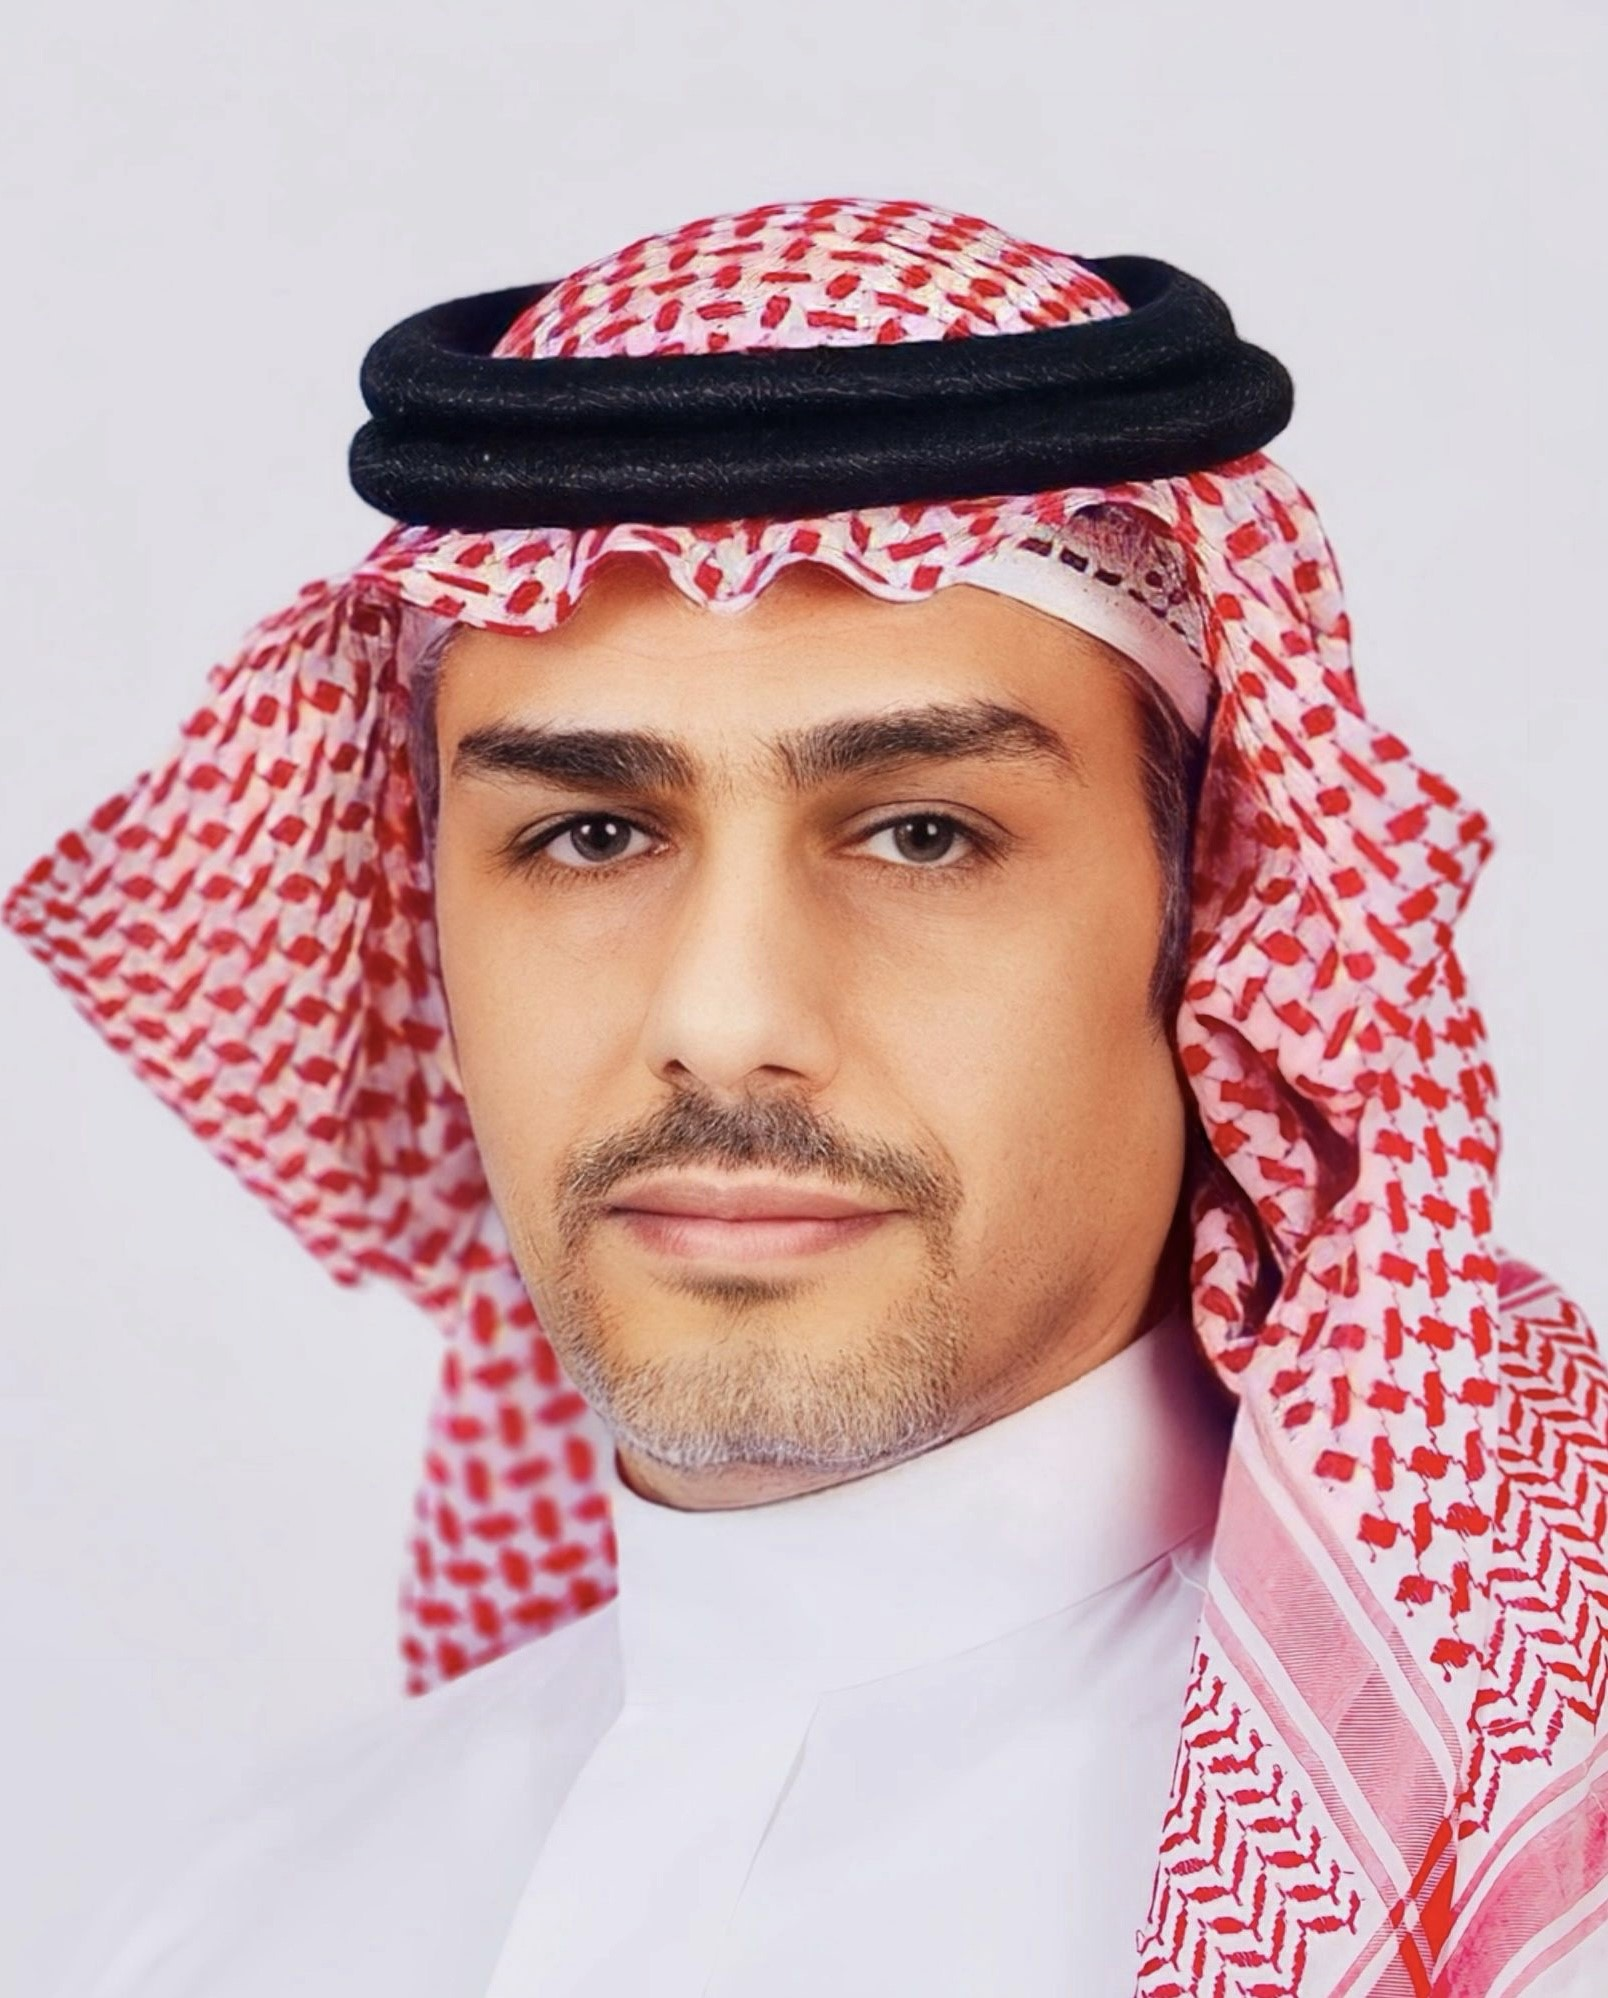
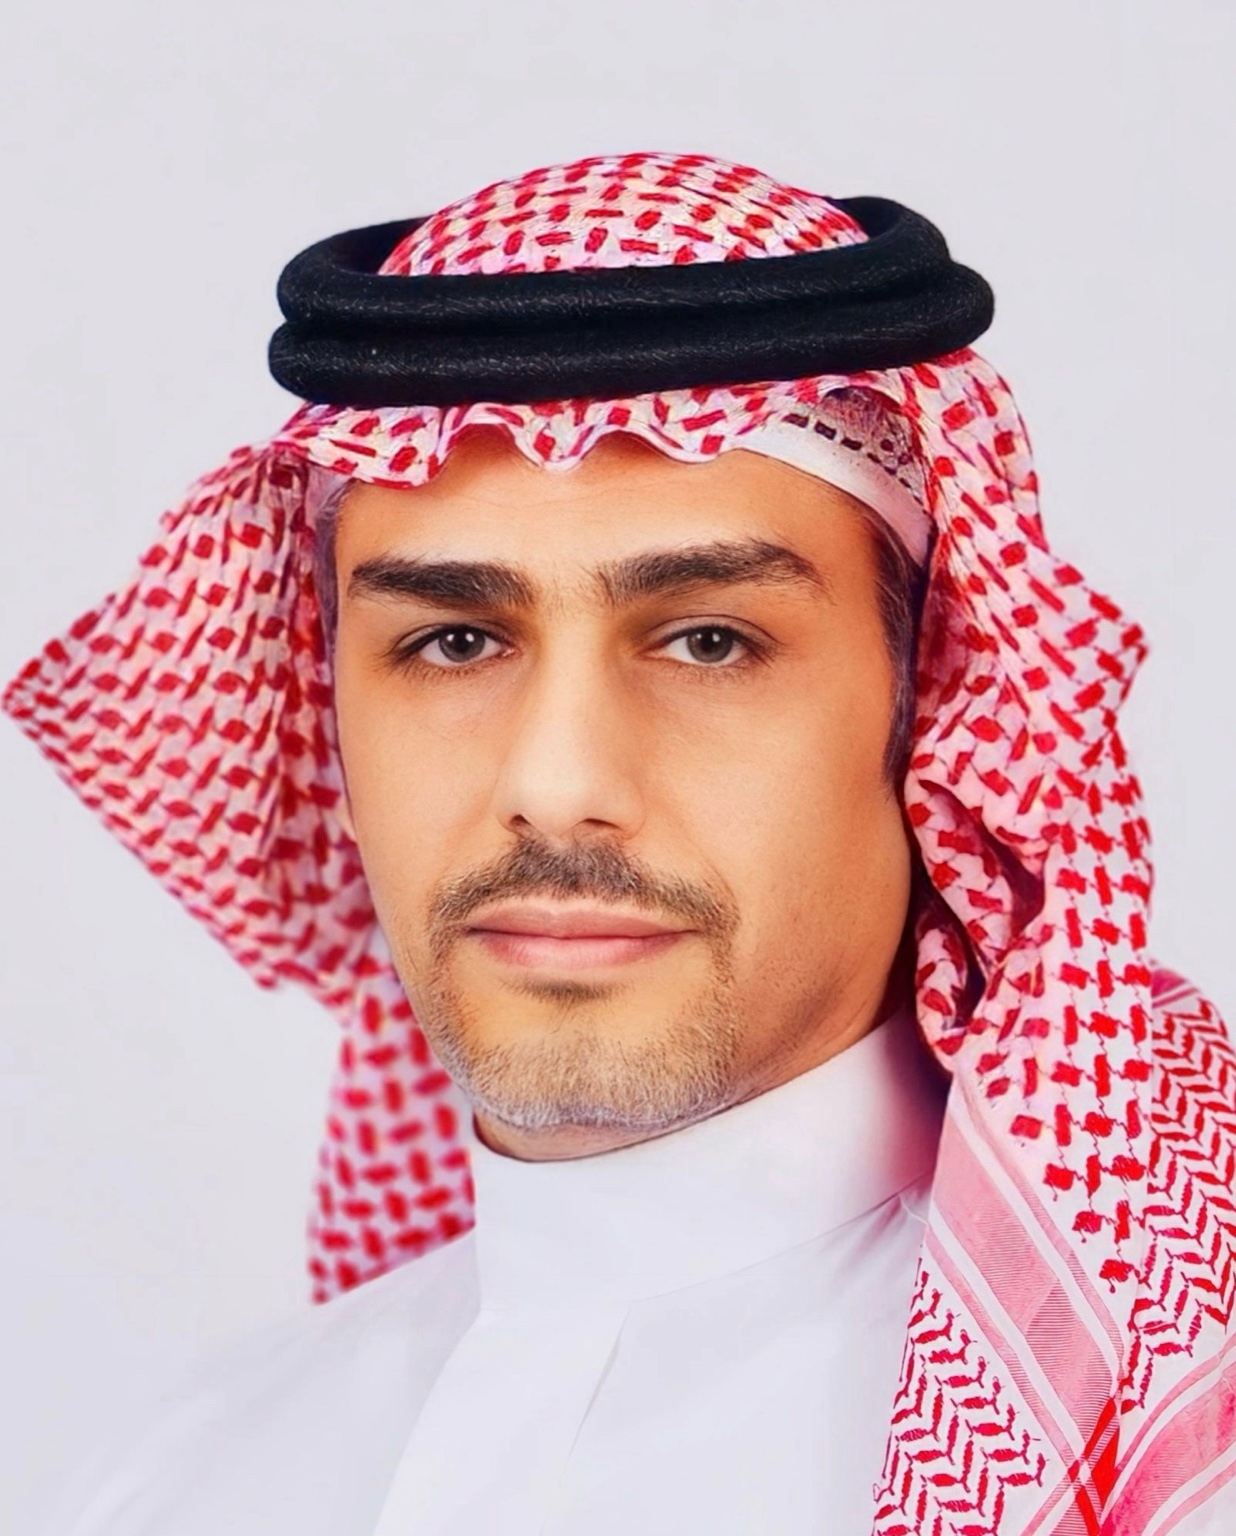
Profile and photo

diff --git a/README.md b/README.md
@@ -1,5 +1,5 @@
 <p align="center">
-<img src="https://github.com/trajeh1/trajeh1/raw/main/profile-photo.jpg" width="160" height="160" style="border-radius: 50%;" alt="Taiseer Bin Saleh Rajeh"/>
+  <img src="https://github.com/trajeh1/trajeh1/raw/main/profile-photo.jpg" width="150" style="border-radius: 50%;" />
 </p>
 
 <h1 align="center">تيسير بن صالح راجح | Taiseer Bin Saleh Rajeh</h1>
@@ -15,18 +15,18 @@
 
 ## 👋 About Me | نبذة عني
 
-مرحبًا!
+مرحبًا!  
 أنا تيسير بن صالح راجح، أعمل في وزارة الاقتصاد والتخطيط، وأسعى لتطوير حلول تقنية تدعم التحول الرقمي ورفع كفاءة الخدمات الحكومية.
 
-Hello!
+Hello!  
 I'm Taiseer Bin Saleh Rajeh, working at the Ministry of Economy and Planning in Saudi Arabia. I’m passionate about digital transformation, tech solutions, and driving innovation in public services.
 
 ---
 
 ## 🔗 تواصل معي | Connect With Me
 
-- 📧 **Email**: T_rajeh@yahoo.com
-- 📱 **WhatsApp**: +966558114848
+- 📧 **Email**: T_rajeh@yahoo.com  
+- 📱 **WhatsApp**: +966558114848  
 - 🌐 **GitHub**: [github.com/trajeh1](https://github.com/trajeh1)
 
 ---
